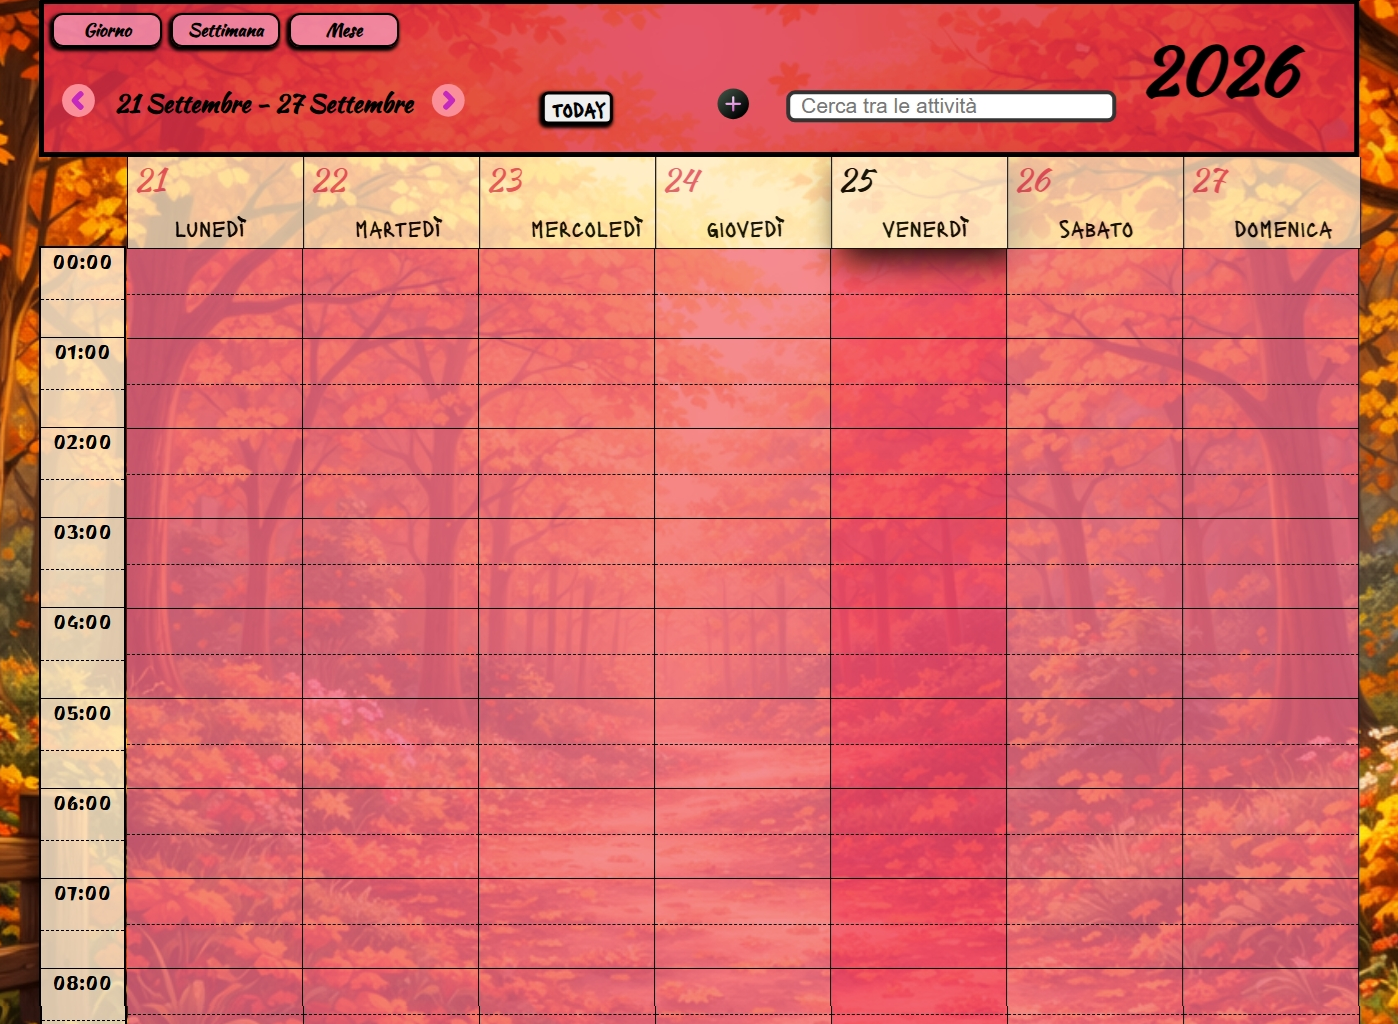
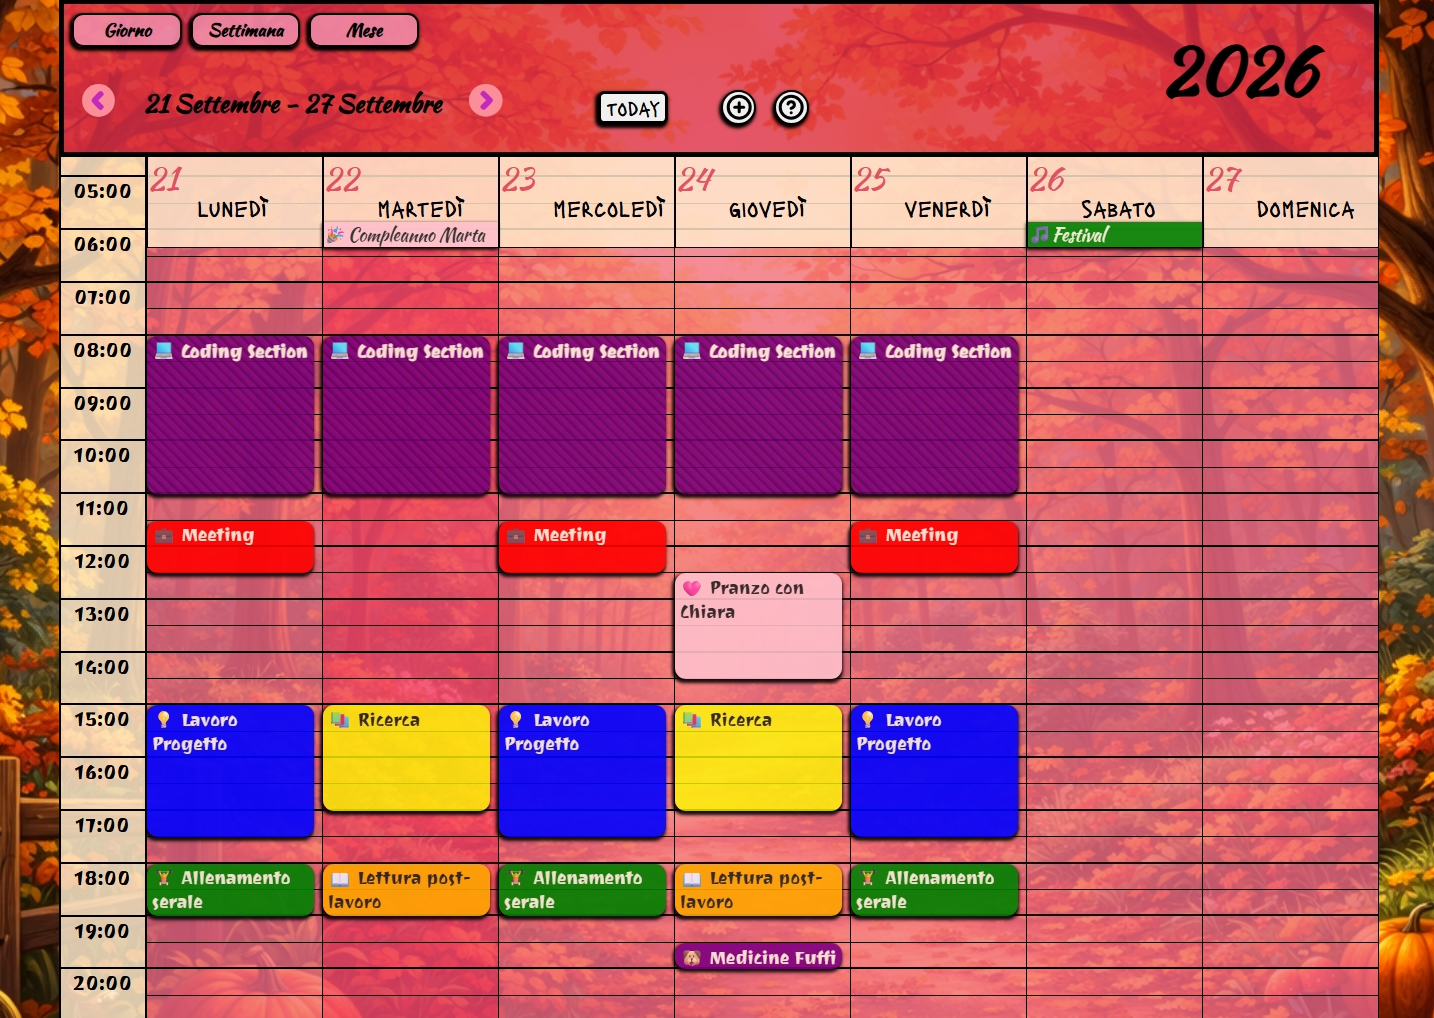
calendarHub and Nextshop projects info and card updated

diff --git a/src/utils/Data.js b/src/utils/Data.js
@@ -40,34 +40,37 @@ export const data = [
 
     repoUrl: "https://github.com/ManuelCappai94/NextStore"
 },
-    {
-        _id: "Calendar_Hub",
-        title: "Calendar Hub",
-        tecnologies: ["JavaScript", "CSS", "Day.js"],
-        icon: [devIcons.js, devIcons.css],
-        desc: "Vanilla JS calendar with synchronized views",
-        img: calendar,
-        version: "v.0.5",
-        demoUrl: "https://manuelcappai94.github.io/CalendarHub/",
-        longDesc: "CalendarHub is a modular calendar application built from scratch with vanilla JavaScript. It is based on a centralized synchronization system that keeps month, week, and daily views aligned through a single source of truth. The project includes a mini calendar for quick navigation, a dynamic seasonal theme system, and the foundation of an event creation workflow through a dedicated modal. The architecture is designed to remain scalable and maintain a clear separation between UI and logic, making future expansions easier to implement.",
+{
+    _id: "Calendar_Hub",
+    title: "Calendar Hub",
+    tecnologies: ["JavaScript", "CSS", "Day.js"],
+    icon: [devIcons.js, devIcons.css],
+    desc: "Advanced Vanilla JS scheduling system",
+    img: calendar,
+    version: "v.0.8",
+    demoUrl: "https://manuelcappai94.github.io/CalendarHub/",
+    longDesc: "CalendarHub is a modular calendar and scheduling application built from scratch with vanilla JavaScript. The project features synchronized month, week, and daily views, a runtime recurring event engine, an exception system for single occurrences, and contextual event management through a dedicated info banner. The architecture is based on centralized synchronization, dynamic rendering, and a clear separation between UI logic, event state, and recurring event generation.",
 
-        features: [
-            "Synchronized Month, Week and Daily views",
-            "Centralized state management",
-            "Mini calendar for quick navigation",
-            "Event creation modal",
-            "Dynamic seasonal theme",
-            "Responsive layout"
-        ],
-        howToUse: [
-            "Select a view using the navigation buttons",
-            "Use arrows to move between dates",
-            "Click day numbers or headers to update the current date",
-            "Click cells or time slots to open the event modal",
-            "Use the mini calendar to jump to a specific date"
-        ],
-        repoUrl: "https://github.com/ManuelCappai94/CalendarHub"
-    },
+    features: [
+        "Synchronized Month, Week and Daily views",
+        "Runtime recurring event engine",
+        "Single occurrence exception system",
+        "Edit and delete single events or entire series",
+        "Contextual info banner with dynamic actions",
+        "Event creation and editing modal",
+        "Mini calendar for quick navigation",
+        "Dynamic seasonal theme",
+        "Guided onboarding tutorial"
+    ],
+    howToUse: [
+        "Select a view using the navigation buttons",
+        "Use arrows or the mini calendar to navigate between dates",
+        "Click cells or time slots to create events with preloaded date and time",
+        "Create recurring events using daily, weekly, monthly or custom patterns",
+        "Click an existing event to open the info banner and manage single events or full series"
+    ],
+    repoUrl: "https://github.com/ManuelCappai94/CalendarHub"
+},
     {
         _id: "The_Omniscent_Cat",
         title: "The Omniscent Cat",

diff --git a/src/App.js b/src/App.js
@@ -101,7 +101,7 @@ useEffect(() => {
           <Route path='*' element={ErrorePage}/>
          
         </Routes>  
-         <footer>© 2025 Manuel</footer>
+         <footer>© 2026 Manuel</footer>
     </div>
   );
 }
